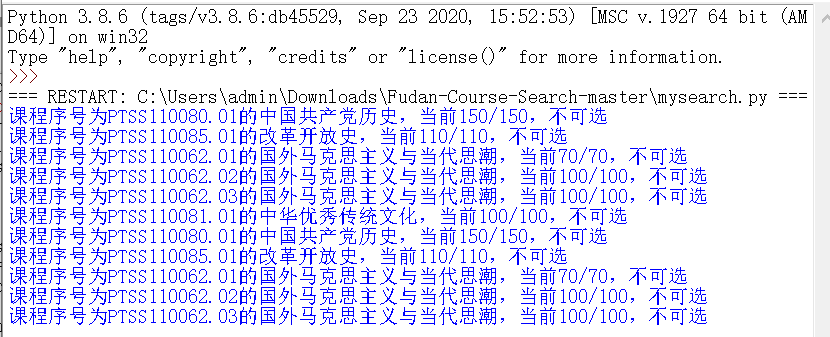
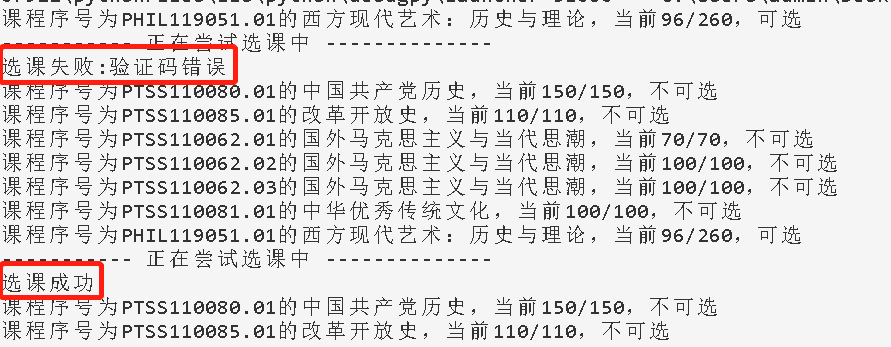
version 2.0 抢课

diff --git a/mysearch.py b/mysearch.py
@@ -3,7 +3,7 @@ import requests
 import time
 import threading
 import re
-
+import base64
 
 class CourseSearcher():
 
@@ -11,6 +11,7 @@ class CourseSearcher():
         self.cookies = dict()
         self.cookies_file = 'cookies.txt'
         self.lessons_file = 'lessons.txt'
+        self.info_file = 'info.txt'
         self.url = 'https://xk.fudan.edu.cn/xk/stdElectCourse!queryLesson.action?profileId=1527'
         self.lessonNo_list = list()
         self.form_data={
@@ -62,10 +63,66 @@ class CourseSearcher():
         ret = re.findall(r"""%s':{sc:([\d]+?),lc:([\d]+?)}"""%id_name[0],response.splitlines()[1])[0]
         if(int(ret[0])<int(ret[1])):
             print("课程序号为%s的%s，当前%s/%s，可选"%(lessonNo,id_name[1],ret[0],ret[1]))
+            print("----------- 正在尝试选课中 --------------")
+            self.frequent_course_request(id_name[0])
         else:
             print("课程序号为%s的%s，当前%s/%s，不可选"%(lessonNo,id_name[1],ret[0],ret[1]))
-        
-        
+
+    # 抢课（捡漏）
+    def frequent_course_request(self, course_id):
+        form_data = {
+            'optype': 'true',
+            'operator0': str(course_id) + ':true:0',
+            'captcha_response': self.get_captcha()
+        }
+        self.select_course(form_data)
+
+    def select_course(self, form_data):
+        try:
+            response = self.session.post(
+                url='https://xk.fudan.edu.cn/xk/stdElectCourse!batchOperator.action?profileId=1527',
+                data=form_data,
+                timeout=5
+            )
+            response = response.content.decode(encoding='utf-8')
+            if(response.find('成功') != -1):
+                print("选课成功")
+            elif(response.find('已经选过') != -1):
+                print("选课失败:你已经选过这门课了")
+            elif(response.find('验证码')):
+                print('选课失败:验证码错误')
+        except:
+            print("选课出错，请检查")
+
+    def get_captcha(self):
+        try:
+            response = self.session.get(
+                url='https://xk.fudan.edu.cn/xk/captcha/image.action',
+                timeout=5
+            )
+            img_b64 = base64.b64encode(response.content).decode()
+            # get captcha from remote api
+            captcha = self.remote_captcha_identify(img_b64)
+            return captcha
+        except:
+            print("获取验证码失败")
+    
+    def remote_captcha_identify(self, base64):
+        with open(self.info_file, 'r', encoding = 'utf-8') as f:
+            info_list = f.read().splitlines()
+        data = {
+            'image' : base64,
+            'username' : info_list[0],
+            'password' : info_list[1],
+            'typeid' : 3
+        }
+        result = json.loads(requests.post("http://api.ttshitu.com/base64", json=data).text)
+        if result['success']:
+            return result["data"]["result"]
+        else:
+            print(result["message"])
+            return ""
+            
 if __name__ == "__main__":
     s = CourseSearcher()
     m = s.search()

diff --git a/README.md b/README.md
@@ -2,19 +2,25 @@
 
 本脚本改写自https://github.com/ICYPOLE/Fudan-Course-Search [复旦研究生课程刷课、捡漏脚本]  by [ICYPOLE](https://github.com/ICYPOLE)
 
-
+作者：[Calvin](https://github.com/Unparalleled-Calvin/) 、 [Xavier](https://github.com/ZiYang-xie)
 
 ### 使用方法
 
 将要蹲的**课程序号**，即选课查询表单的第一栏，按行写入lessons.txt
 
-登录选课系统，提交一次请求，从浏览器network栏获得cookie，将cookie拷贝到cookies.txt文件中
+登录选课系统，提交一次请求，从浏览器network栏获得cookie，**将cookie拷贝到cookies.txt文件中**
+
+在http://www.ttshitu.com/  **注册账号**，充值一定的金额用于图片识别(最少一元，够了，一次识别只需要0.002元)，**将用户名，密码写入info.txt的1,2行中**，info.txt为空将无法实现抢课功能
+
+
 
 cookie获得方式如图
 
 ![cookie获得方式](./cookie获得方式.png)
 
-执行py文件，会不断对考察列表轮询，查看当前课程是否已选满。
+
+
+执行py文件，会不断对考察列表轮询，查看当前课程是否已选满。如果未选满，则会读取验证码，并进行选课尝试，效果如下所示。图片识别可能出错，需要等待下一次轮询。
 
 ![效果示意](./效果示意.png)
 
@@ -26,8 +32,6 @@ cookie获得方式如图
 
 2. 由于脚本采用cookie进行发包，每次登陆选课系统cookie都不相同，使用脚本过程中不应在其他设备用同一账号登陆选课系统。
 
-3. 由于本科生选课可能需要输入验证码等，所以脚本不涉及抢课操作
+3. 验证码需要**利用外部接口进行远程识别**，每次识别需要在接口网站花0.002元，实际上选课系统第一次选课是不会弹出验证码的，如果没有账号，该脚本对您起不到**帮助抢课**的作用。
 
-4. **使用者可配合win10toast包进行系统消息提示、或是yagmail包进行邮件提示**
-
-5. 本脚本还处于测试阶段，如果出现bug，欢迎指出
+4. 本脚本还处于测试阶段，如果出现bug，欢迎指出
